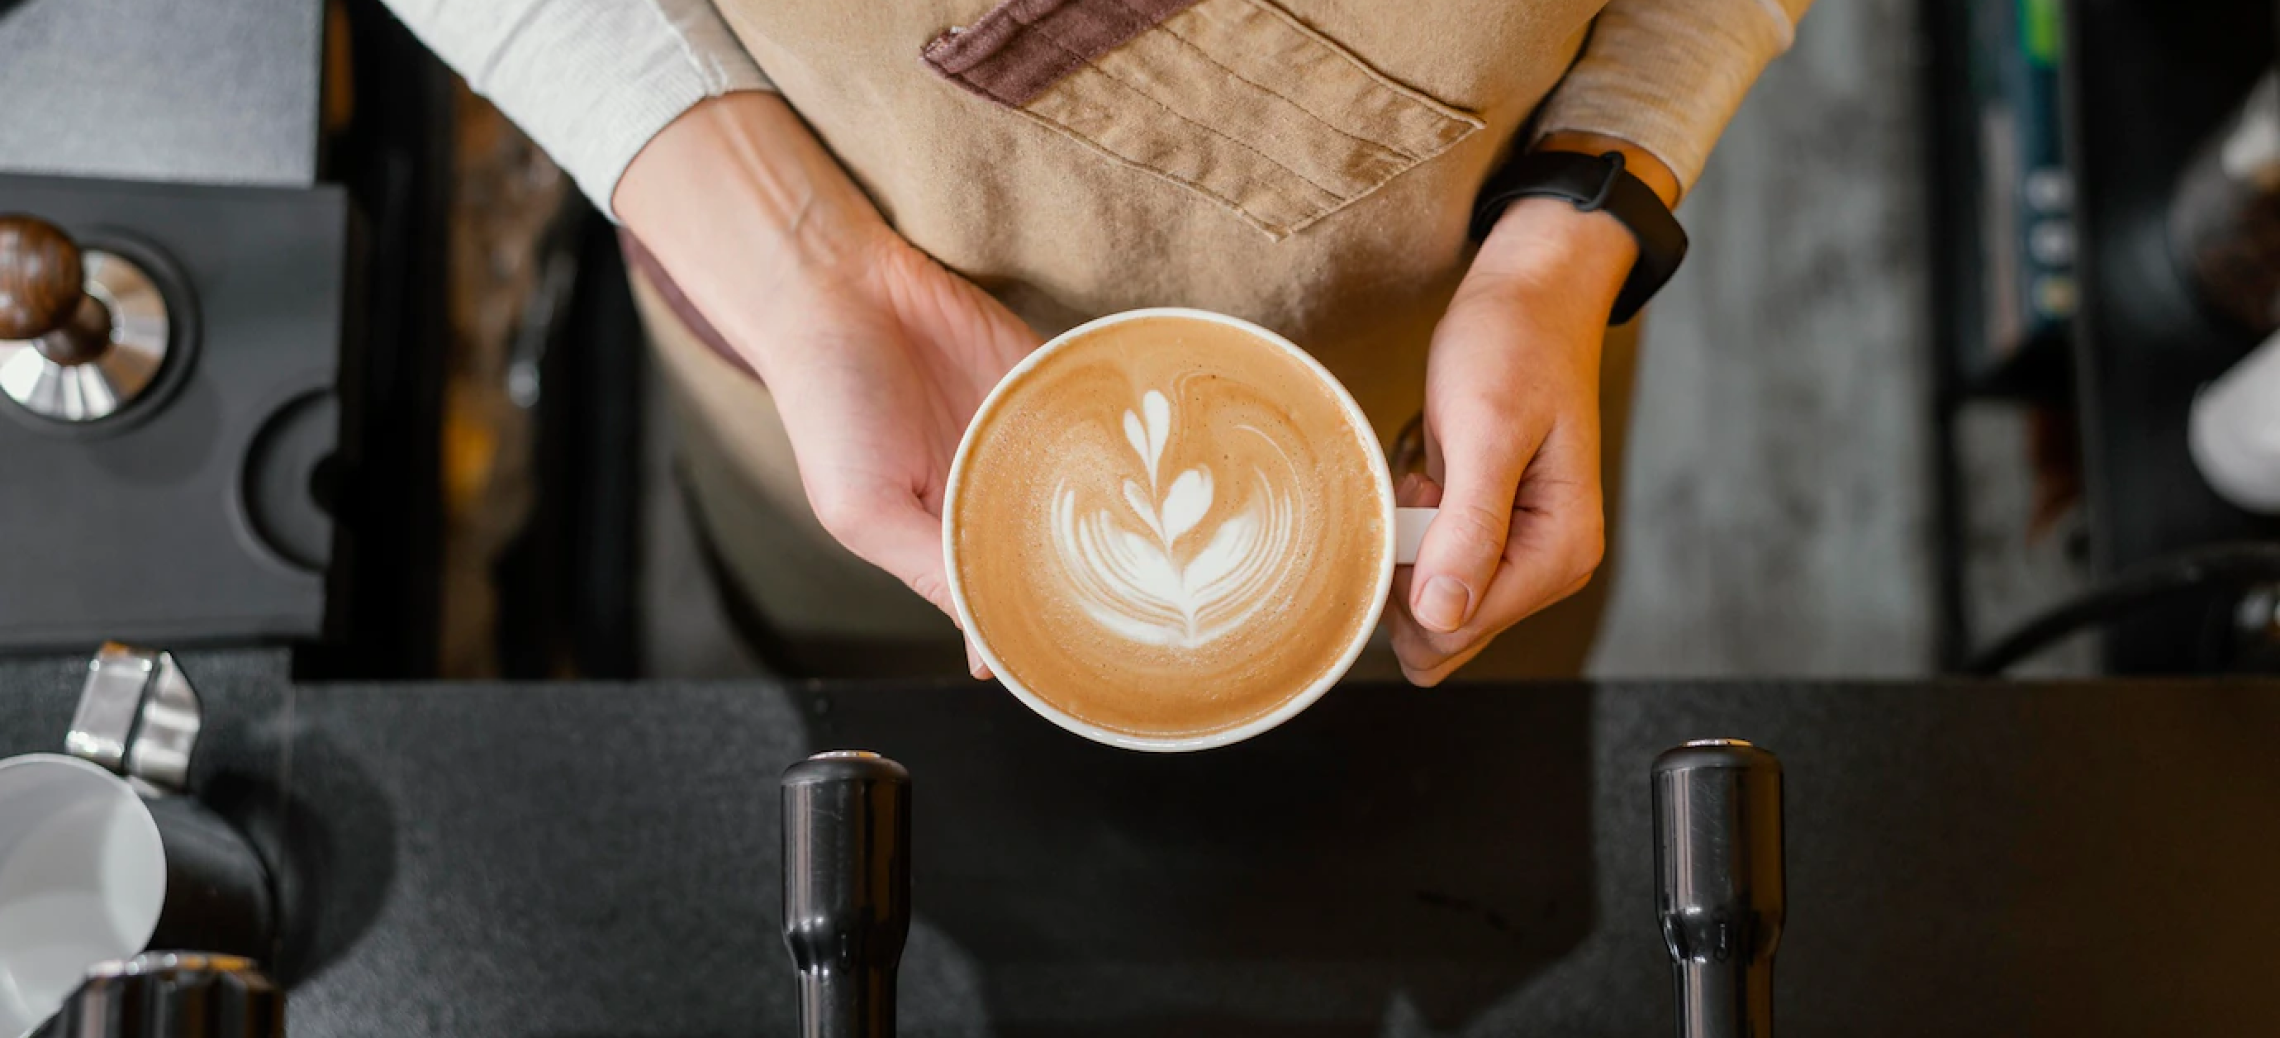
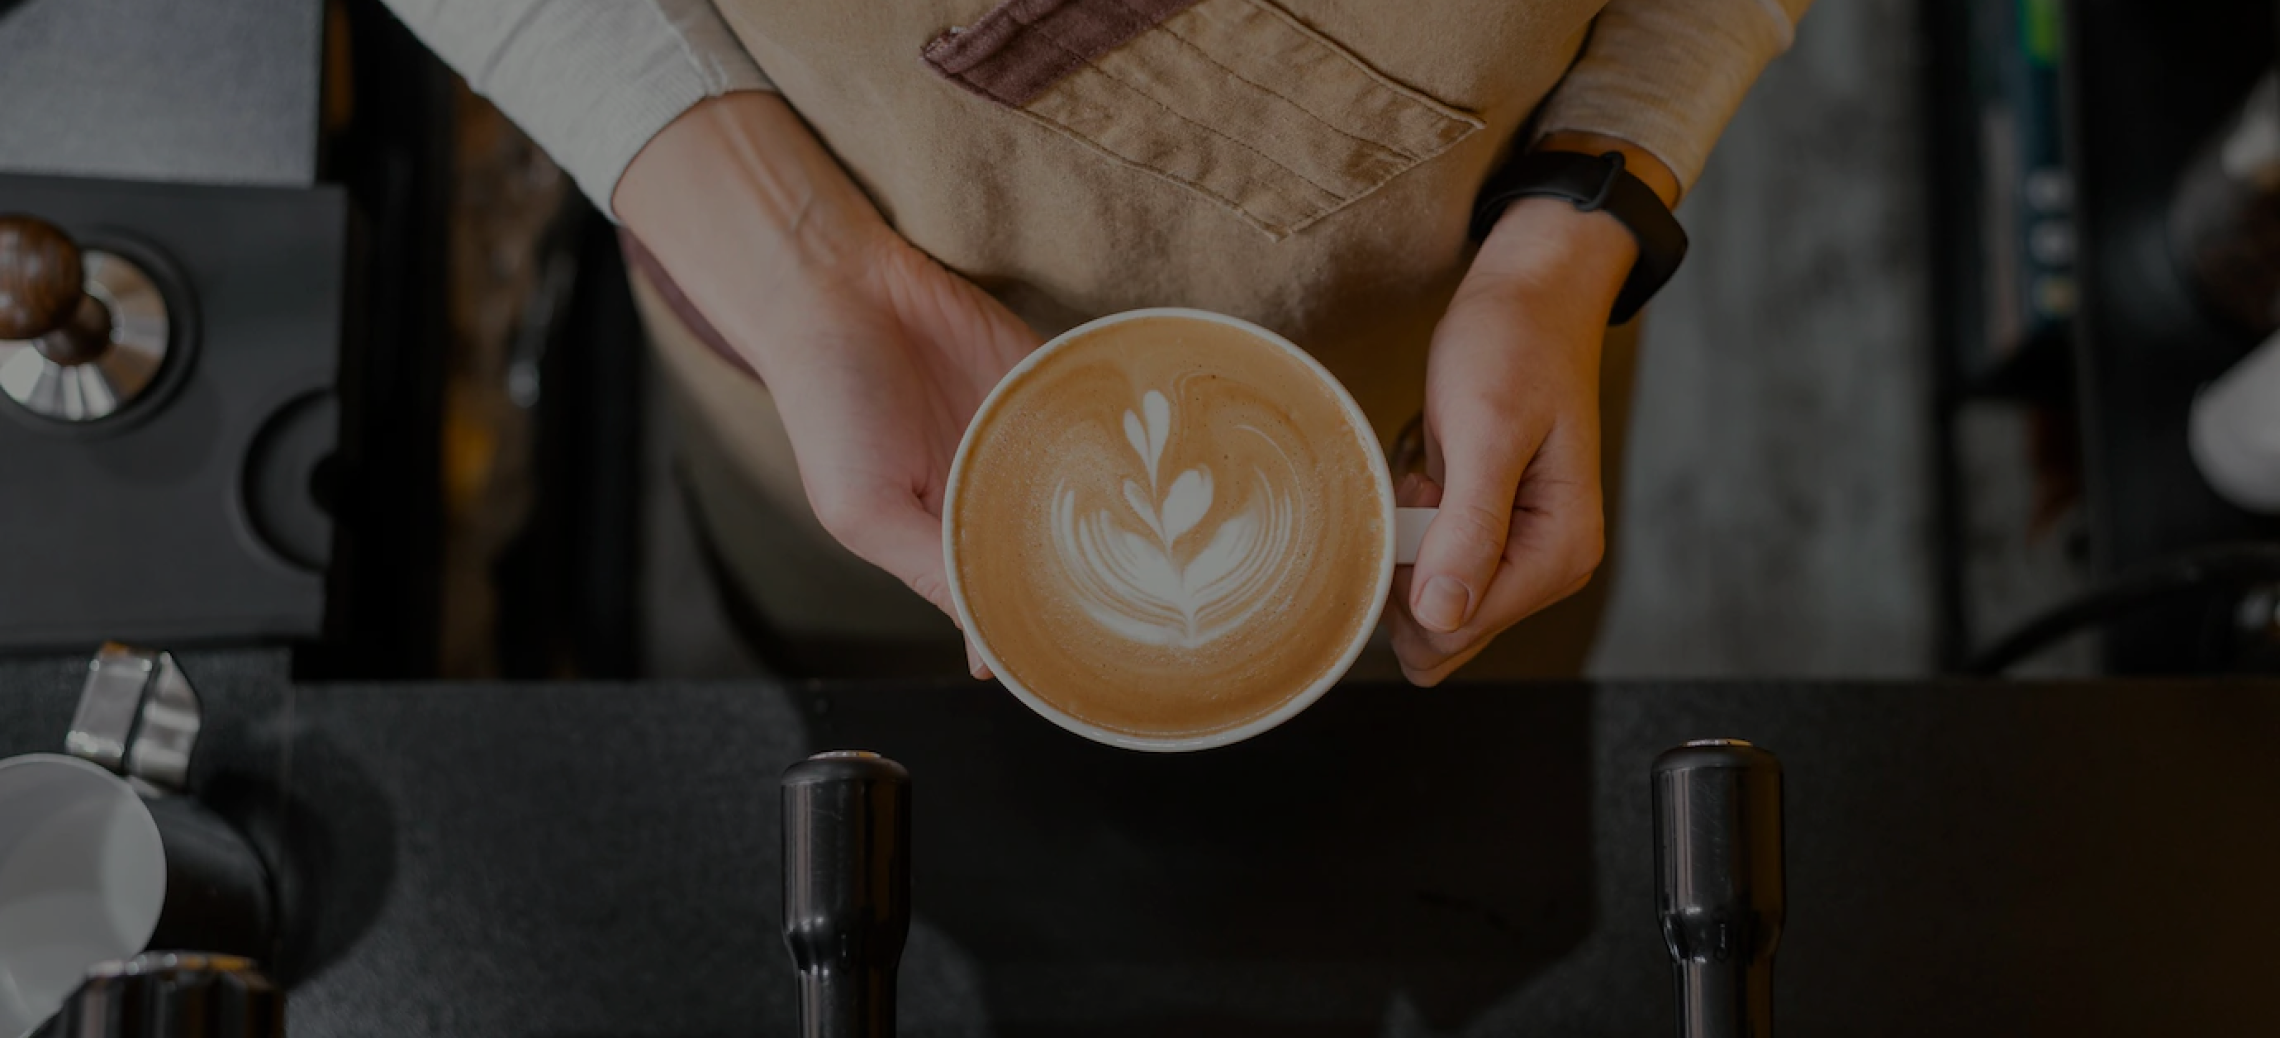
landing layout adjustments

diff --git a/public/css/style.css b/public/css/style.css
@@ -16,6 +16,19 @@ body {
     background-color: var(--green-light) !important;
 }
 
+.splide__slide img {
+    width: 100%;
+    height: auto;
+}
+
+.splide__arrow--prev {
+    margin-left: 10px;
+}
+
+.splide__arrow--next {
+    margin-right: 10px;
+}
+
 #view-all {
     color: #212529;
 }
@@ -347,6 +360,7 @@ body {
 
 
 @media print {
+
     /* on modal open bootstrap adds class "modal-open" to body, so you can handle that case and hide body */
     body.modal-open {
         visibility: hidden;
@@ -354,6 +368,7 @@ body {
 
     body.modal-open .modal .modal-header,
     body.modal-open .modal .card-order {
-        visibility: visible; /* make visible modal body and header */
+        visibility: visible;
+        /* make visible modal body and header */
     }
 }

diff --git a/resources/views/landing.blade.php b/resources/views/landing.blade.php
@@ -4,8 +4,21 @@
 @section('content')
 
     {{-- Hero Start --}}
-    <section class="landing-container container mt-5">
-        <img class="img-fluid" src="{{ asset('image/hero-coffee.png') }}" alt="hero-coffee" style="filter: brightness(50%)">
+    <section id="image-carousel" class="splide landing-container container mt-5" aria-label="Hero Images">
+        <div class="splide__track">
+            <ul class="splide__list">
+                <li class="splide__slide position-relative">
+                    <a href="#best-seller" class="btn btn-lg btn-light position-absolute" style="z-index: 1000; bottom:24%; left:7%">Lihat menu</a>
+                    <img src="{{ asset('image/hero-best.jpg') }}" alt="hero-1">
+                </li>
+                <li class="splide__slide">
+                    <img src="{{ asset('image/hero-open.jpg') }}" alt="hero-2">
+                </li>
+                <li class="splide__slide">
+                    <img src="{{ asset('image/hero-coffee.png') }}" alt="hero-3">
+                </li>
+            </ul>
+        </div>
     </section>
     {{-- Hero End --}}
 
@@ -34,7 +47,7 @@
     <br><br>
 
     {{-- Best Seller --}}
-    <section class="w-100 bg-lightgreen">
+    <section class="w-100 bg-lightgreen" id="best-seller">
         <br>
         <div class="container landing-container py-5">
 
@@ -45,17 +58,17 @@
                 <span class="d-inline float-end"><a href="/display-menu" id="view-all">View All</a></span>
             </div>
 
-            <div class="splide">
+            <div class="splide" id="menu-slide">
                 <div class="splide__track">
                     <div class="splide__list">
 
                         @foreach ($bestSeller as $best)
-                            <div class="splide__slide card bg-success text-light" style="height: 475px">
+                            <div class="splide__slide card bg-success text-light">
                                 <img src="{{ asset($best->img) }}" class="card-img-top" alt="menu">
-                                <div class="card-body">
+                                <div class="card-body position-relative">
                                     <h5 class="card-title mb-3 fw-semibold">{{ $best->name }}</h5>
                                     <p class="fw-light">{{ $best->desc }}</p>
-                                    <a href="#" class="btn btn-light mb-3">See details ››</a>
+                                    <a href="#" class="btn btn-light mb-3 position-absolute bottom-0">See details ››</a>
                                 </div>
                             </div>
                         @endforeach
@@ -97,7 +110,7 @@
 @push('js')
     <script src="https://cdn.jsdelivr.net/npm/@splidejs/splide@4.1.2/dist/js/splide.min.js"></script>
     <script>
-        var splide = new Splide('.splide', {
+        new Splide('#menu-slide', {
             autoplay: true,
             arrows: false,
             rewind: true,
@@ -106,8 +119,15 @@
             focus: 0,
             omitEnd: true,
             gap: '1rem',
-        });
+            height: '475px',
+        }).mount();
 
-        splide.mount();
+        new Splide('#image-carousel', {
+            autoplay: true,
+            rewind: true,
+            interval: 3500,
+            focus: 0,
+            omitEnd: true,
+        }).mount();
     </script>
 @endpush

diff --git a/resources/views/partials/display_menu_list.blade.php b/resources/views/partials/display_menu_list.blade.php
@@ -1,19 +1,19 @@
 <div class="row">
     @foreach ($menus as $menu)
         <div class="col-lg-3 col-md-6 mb-5 px-4">
-            <div class="card shadows" style="border-radius: 25px">
+            <div class="card shadows" style="border-radius: 25px; height: 509px">
 
                 <img class="card-img-top" src="{{ asset($menu->img) }}" alt="menu-image" style="border-radius: 25px 25px 0 0">
                 {{-- <img class="card-img-top" src="{{ Str::substr($menu->img, 0, strpos($menu->img, ".")) . '-alt.png' }}" alt="menu-image"> --}}
-                <div class="card-body">
+                <div class="card-body position-relative">
                     <div class="row align-items-end mb-3 px-4">
                         <div class="col-10 p-0">
                             <h3 class="text-capitalize title-menu title-ellipsis">{{ $menu->name }}</h3>
                             <p class="text-desc mb-2 menu-desc">{{ $menu->desc }}</p>
-                            <p class="fw-semibold title-medium m-0 text-success">@currency($menu->price)</p>
+                            <p class="fw-semibold title-medium m-0 text-success position-absolute bottom-0 mb-4">@currency($menu->price)</p>
                         </div>
                         <div class="col-2 p-0">
-                            <a href="/login" class="btn btn-success rounded-circle" style="padding: 5px 10px"><i class="fa-solid fa-plus"></i></a>
+                            <a href="/login" class="btn btn-success rounded-circle position-absolute bottom-0 mb-4" style="padding: 5px 10px"><i class="fa-solid fa-plus"></i></a>
                         </div>
                     </div>
                 </div>
